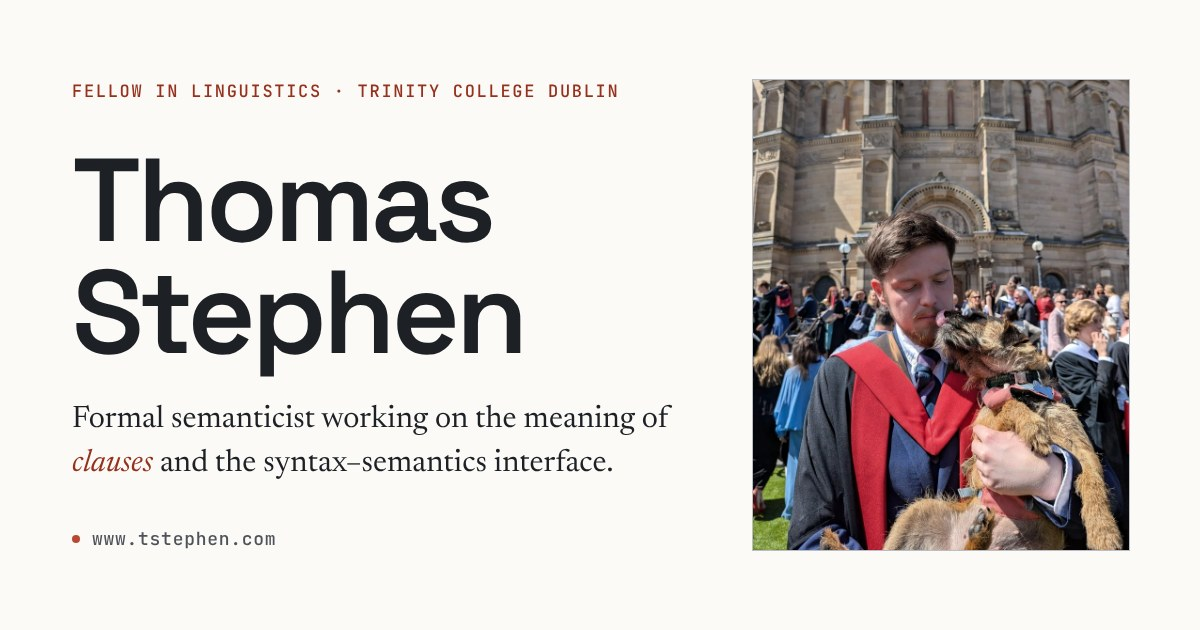
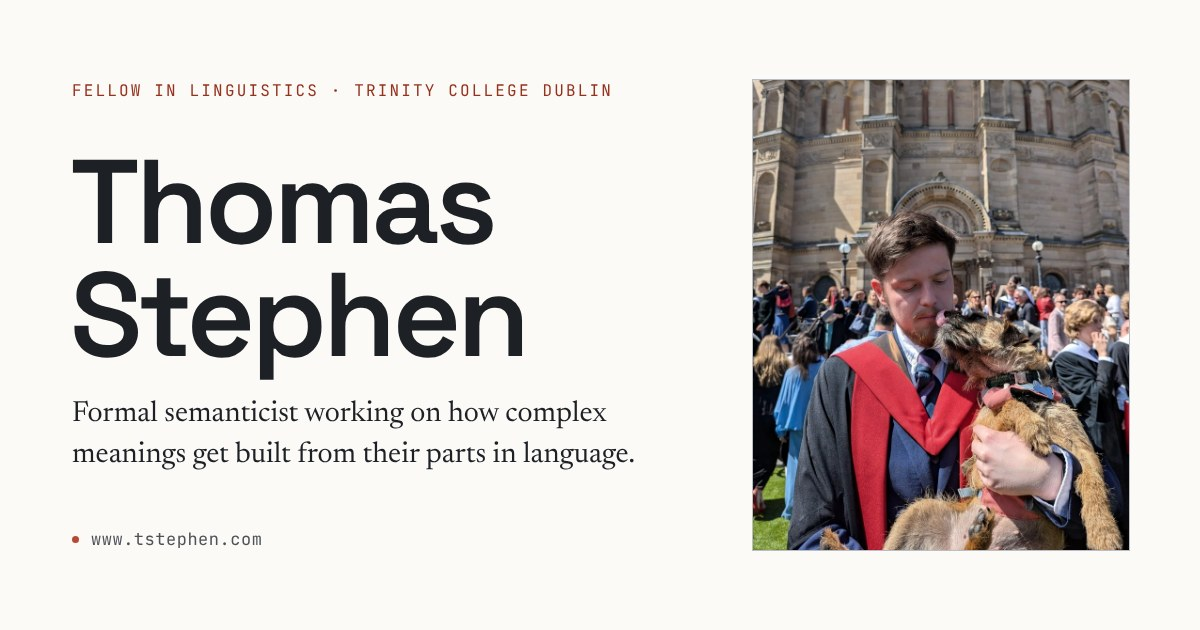
New hero line: formal semanticist working on how complex meanings get built from their parts in language

diff --git a/index.html b/index.html
@@ -4,12 +4,12 @@
 <meta charset="UTF-8">
 <meta name="viewport" content="width=device-width, initial-scale=1.0">
 <title>Thomas Stephen: Fellow in Linguistics, Trinity College Dublin</title>
-<meta name="description" content="Thomas Stephen is a Fellow in Linguistics at Trinity College Dublin working on formal semantics, the syntax–semantics interface, and the philosophy of language.">
+<meta name="description" content="Thomas Stephen, Fellow in Linguistics at Trinity College Dublin, is a formal semanticist working on how complex meanings get built from their parts in language.">
 <link rel="canonical" href="https://www.tstephen.com/">
 <meta property="og:type" content="website">
 <meta property="og:site_name" content="Thomas Stephen">
 <meta property="og:title" content="Thomas Stephen: Fellow in Linguistics, Trinity College Dublin">
-<meta property="og:description" content="Formal semanticist working on the meaning of clauses and the syntax–semantics interface.">
+<meta property="og:description" content="Formal semanticist working on how complex meanings get built from their parts in language.">
 <meta property="og:url" content="https://www.tstephen.com/">
 <meta property="og:image" content="https://www.tstephen.com/images/preview.jpg">
 <meta property="og:image:width" content="1200">
@@ -467,7 +467,7 @@
         <div>
           <p class="eyebrow">Fellow in Linguistics · Trinity College Dublin</p>
           <h1 class="name">Thomas<br>Stephen</h1>
-          <p class="lede">Formal semanticist working on the meaning of <em>clauses</em> and the syntax–semantics interface.</p>
+          <p class="lede">Formal semanticist working on how complex meanings get built from their parts in language.</p>
           <div class="hero-meta">
             <a class="chip" href="#research"><span class="dot"></span>Research</a>
             <a class="chip" href="cv/">Curriculum Vitae</a>
